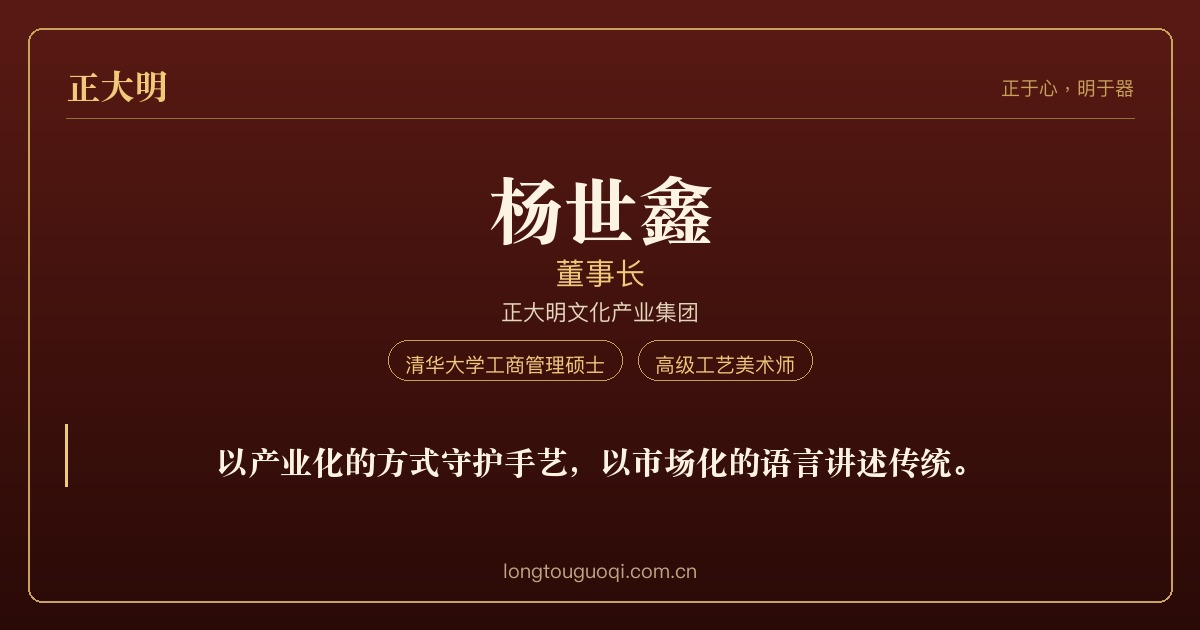
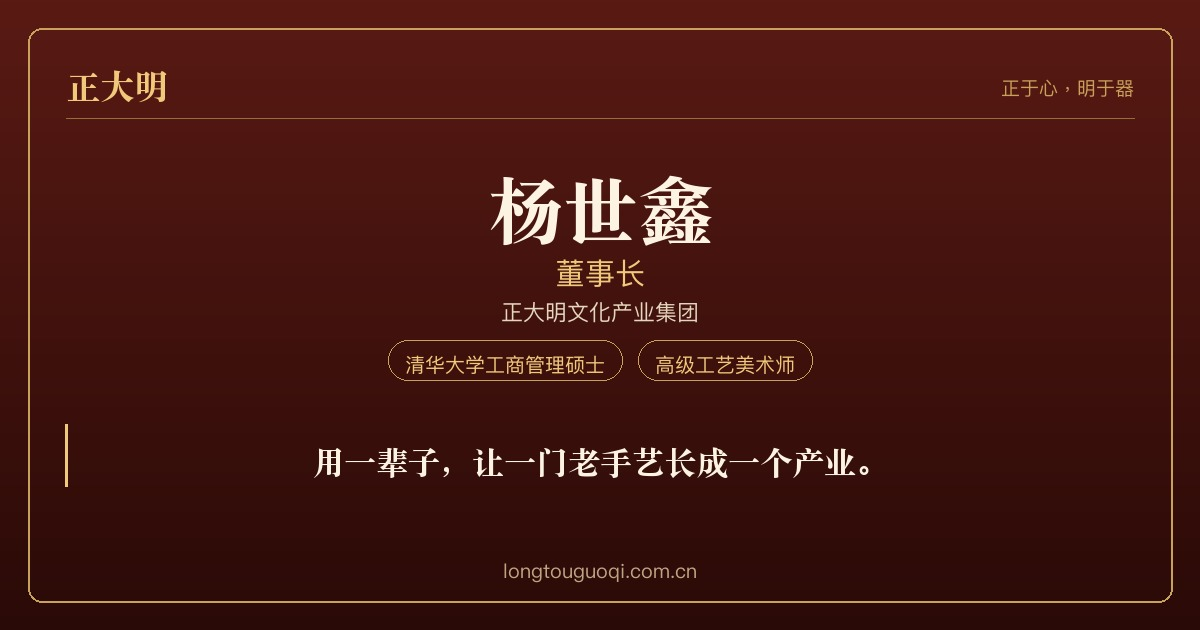
杨世鑫名片定位语改为「用一辈子，让一门老手艺长成一个产业」，与袁端姣「用一辈子，把一棵漆树做成一种生活」统一句式；同步关键词与分享大图

Changed region(s): [[0.185, 0.6937, 0.8017, 0.754]]

diff --git a/card-yang-shixin.html b/card-yang-shixin.html
@@ -4,17 +4,17 @@
   <meta charset="UTF-8">
   <meta name="viewport" content="width=device-width, initial-scale=1.0">
   <meta name="theme-color" content="#3d0f0b">
-  <meta name="description" content="杨世鑫｜正大明 董事长。清华大学工商管理硕士。以产业化的方式守护手艺，以市场化的语言讲述传统。">
+  <meta name="description" content="杨世鑫｜正大明 董事长。清华大学工商管理硕士。用一辈子，让一门老手艺长成一个产业。">
   <title>杨世鑫｜正大明 董事长</title>
   <meta property="og:type" content="website">
   <meta property="og:site_name" content="正大明">
   <meta property="og:title" content="杨世鑫｜正大明 董事长">
-  <meta property="og:description" content="以产业化的方式守护手艺，以市场化的语言讲述传统。">
+  <meta property="og:description" content="用一辈子，让一门老手艺长成一个产业。">
   <meta property="og:url" content="https://www.longtouguoqi.com.cn/card-yang-shixin.html">
   <meta property="og:image" content="https://www.longtouguoqi.com.cn/images/card-yang-shixin-share.jpg">
   <meta name="twitter:card" content="summary_large_image">
   <meta name="twitter:title" content="杨世鑫｜正大明 董事长">
-  <meta name="twitter:description" content="以产业化的方式守护手艺，以市场化的语言讲述传统。">
+  <meta name="twitter:description" content="用一辈子，让一门老手艺长成一个产业。">
   <meta name="twitter:image" content="https://www.longtouguoqi.com.cn/images/card-yang-shixin-share.jpg">
   <link rel="preconnect" href="https://fonts.googleapis.com">
   <link rel="preconnect" href="https://fonts.gstatic.com" crossorigin>
@@ -159,7 +159,7 @@ a.card-brand:hover { background: rgba(0,0,0,0.34); border-color: rgba(240,201,12
           <span>中共党员</span></div>
       </div>
 
-      <blockquote class="card-quote">以产业化的方式守护手艺，以市场化的语言讲述传统。</blockquote>
+      <blockquote class="card-quote">用一辈子，让一门老手艺长成一个产业。</blockquote>
 
             <section class="card-block">
         <h2>个人简介</h2>
@@ -214,7 +214,7 @@ a.card-brand:hover { background: rgba(0,0,0,0.34); border-color: rgba(240,201,12
         <ul class="card-list">
           <li>一门古老手艺的现代化：把产业思维注入传统漆艺</li>
           <li>跨界融合：传统漆艺 × 现代涂料工业</li>
-          <li>以产业化的方式守护手艺，以市场化的语言讲述传统</li>
+          <li>用一辈子，让一门老手艺长成一个产业</li>
         </ul>
       </section>
 
